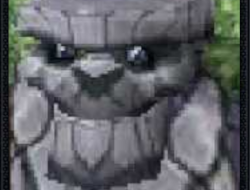
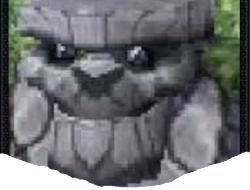
Added "Tree Grab" card + power, not fully functional yet

Changed region(s): [[0.0, 0.7895, 1.0, 1.0]]

diff --git a/theDefault/src/main/java/theStoneGiant/powers/TreePower.java b/theDefault/src/main/java/theStoneGiant/powers/TreePower.java
@@ -1,0 +1,64 @@
+package theStoneGiant.powers;
+
+import basemod.interfaces.CloneablePowerInterface;
+import com.badlogic.gdx.graphics.Texture;
+import com.badlogic.gdx.graphics.g2d.TextureAtlas;
+import com.megacrit.cardcrawl.actions.unique.LoseEnergyAction;
+import com.megacrit.cardcrawl.core.AbstractCreature;
+import com.megacrit.cardcrawl.core.CardCrawlGame;
+import com.megacrit.cardcrawl.dungeons.AbstractDungeon;
+import com.megacrit.cardcrawl.localization.PowerStrings;
+import com.megacrit.cardcrawl.powers.AbstractPower;
+import theStoneGiant.DefaultMod;
+import theStoneGiant.util.TextureLoader;
+
+import static theStoneGiant.DefaultMod.makePowerPath;
+
+//Gain 1 stack of grow.
+
+public class TreePower extends AbstractPower implements CloneablePowerInterface {
+    public AbstractCreature source;
+
+    public static final String POWER_ID = DefaultMod.makeID("TreePower");
+    private static final PowerStrings powerStrings = CardCrawlGame.languagePack.getPowerStrings(POWER_ID);
+    public static final String NAME = powerStrings.NAME;
+    public static final String[] DESCRIPTIONS = powerStrings.DESCRIPTIONS;
+
+    // We create 2 new textures *Using This Specific Texture Loader* - an 84x84 image and a 32x32 one.
+    // There's a fallback "missing texture" image, so the game shouldn't crash if you accidentally put a non-existent file.
+    private static final Texture tex84 = TextureLoader.getTexture(makePowerPath("tree_power84.png"));
+    private static final Texture tex32 = TextureLoader.getTexture(makePowerPath("tree_power32.png"));
+
+    public TreePower(final AbstractCreature owner, final AbstractCreature source, final int amount) {
+        name = NAME;
+        ID = POWER_ID;
+
+        this.owner = owner;
+        this.amount = amount;
+        this.source = source;
+
+        type = PowerType.BUFF;
+        isTurnBased = false;
+
+        // We load those textures here.
+        this.region128 = new TextureAtlas.AtlasRegion(tex84, 0, 0, 84, 84);
+        this.region48 = new TextureAtlas.AtlasRegion(tex32, 0, 0, 32, 32);
+
+        updateDescription();
+    }
+
+    // Update the description when you apply this power. (i.e. add or remove an "s" in keyword(s))
+    @Override
+    public void updateDescription() {
+        if (amount == 1) {
+            description = DESCRIPTIONS[0] + amount + DESCRIPTIONS[1];
+        } else if (amount > 1) {
+            description = DESCRIPTIONS[0] + amount + DESCRIPTIONS[2];
+        }
+    }
+
+    @Override
+    public AbstractPower makeCopy() {
+        return new TreePower(owner, source, amount);
+    }
+}

diff --git a/theDefault/src/main/java/theStoneGiant/cards/TreeGrab.java b/theDefault/src/main/java/theStoneGiant/cards/TreeGrab.java
@@ -1,0 +1,67 @@
+package theStoneGiant.cards;
+
+import com.megacrit.cardcrawl.actions.common.ApplyPowerAction;
+import com.megacrit.cardcrawl.characters.AbstractPlayer;
+import com.megacrit.cardcrawl.dungeons.AbstractDungeon;
+import com.megacrit.cardcrawl.monsters.AbstractMonster;
+import com.megacrit.cardcrawl.powers.DexterityPower;
+import com.megacrit.cardcrawl.powers.StrengthPower;
+import theStoneGiant.DefaultMod;
+import theStoneGiant.characters.TheDefault;
+import theStoneGiant.powers.GrowPower;
+import theStoneGiant.powers.TreePower;
+
+import static theStoneGiant.DefaultMod.makeCardPath;
+
+public class TreeGrab extends AbstractDynamicCard {
+
+    /*
+     * Wiki-page: https://github.com/daviscook477/BaseMod/wiki/Custom-Cards
+     *
+     * Grow: Equip a Tree for your next 5 attacks.
+     */
+
+    // TEXT DECLARATION
+
+    public static final String ID = DefaultMod.makeID(TreeGrab.class.getSimpleName());
+    public static final String IMG = makeCardPath("treegrab.png");
+
+    // /TEXT DECLARATION/
+
+
+    // STAT DECLARATION
+
+    private static final CardRarity RARITY = CardRarity.BASIC;
+    private static final CardTarget TARGET = CardTarget.SELF;
+    private static final CardType TYPE = CardType.SKILL;
+    public static final CardColor COLOR = TheDefault.Enums.COLOR_TINY;
+
+    private static final int COST = 1;
+    private static final int UPGRADE_COST = 0;
+
+    private int AMOUNT = 5;
+
+    // /STAT DECLARATION/
+
+
+    public TreeGrab() {
+        super(ID, IMG, COST, TYPE, COLOR, RARITY, TARGET);
+        baseMagicNumber = magicNumber = AMOUNT;
+    }
+
+    // Actions the card should do.
+    @Override
+    public void use(AbstractPlayer p, AbstractMonster m) {
+        AbstractDungeon.actionManager.addToBottom(new ApplyPowerAction(p, p, new TreePower(p, p, AMOUNT)));
+    }
+
+    //Upgraded stats.
+    @Override
+    public void upgrade() {
+        if (!upgraded) {
+            upgradeName();
+            upgradeBaseCost(UPGRADE_COST);
+            initializeDescription();
+        }
+    }
+}

diff --git a/theDefault/src/main/java/theStoneGiant/actions/SettleQuarryAction.java b/theDefault/src/main/java/theStoneGiant/actions/SettleQuarryAction.java
@@ -4,16 +4,12 @@ import com.badlogic.gdx.Gdx;
 import com.megacrit.cardcrawl.actions.AbstractGameAction;
 import com.megacrit.cardcrawl.actions.common.ApplyPowerAction;
 import com.megacrit.cardcrawl.actions.common.DamageAction;
-import com.megacrit.cardcrawl.actions.common.ExhaustSpecificCardAction;
 import com.megacrit.cardcrawl.cards.AbstractCard;
 import com.megacrit.cardcrawl.cards.DamageInfo;
 import com.megacrit.cardcrawl.characters.AbstractPlayer;
 import com.megacrit.cardcrawl.core.Settings;
 import com.megacrit.cardcrawl.dungeons.AbstractDungeon;
 import com.megacrit.cardcrawl.monsters.AbstractMonster;
-import com.megacrit.cardcrawl.relics.ChemicalX;
-import com.megacrit.cardcrawl.ui.panels.EnergyPanel;
-import theStoneGiant.powers.CommonPower;
 import theStoneGiant.powers.GrowPower;
 
 public class SettleQuarryAction extends AbstractGameAction {

diff --git a/theDefault/src/main/java/theStoneGiant/cards/SettleQuarry.java b/theDefault/src/main/java/theStoneGiant/cards/SettleQuarry.java
@@ -11,9 +11,6 @@ import com.megacrit.cardcrawl.core.CardCrawlGame;
 import com.megacrit.cardcrawl.dungeons.AbstractDungeon;
 import com.megacrit.cardcrawl.localization.CardStrings;
 import com.megacrit.cardcrawl.monsters.AbstractMonster;
-import com.megacrit.cardcrawl.powers.MinionPower;
-import com.megacrit.cardcrawl.ui.panels.EnergyPanel;
-import com.megacrit.cardcrawl.vfx.combat.PowerBuffEffect;
 import theStoneGiant.DefaultMod;
 import theStoneGiant.actions.SettleQuarryAction;
 import theStoneGiant.characters.TheDefault;

diff --git a/theDefault/src/main/java/theStoneGiant/characters/TheDefault.java b/theDefault/src/main/java/theStoneGiant/characters/TheDefault.java
@@ -166,6 +166,7 @@ public class TheDefault extends CustomPlayer {
         retVal.add(DefaultCommonSkill.ID);
         retVal.add(GrowCard.ID);
         retVal.add(SettleQuarry.ID);
+        retVal.add(TreeGrab.ID);
         return retVal;
     }
 
